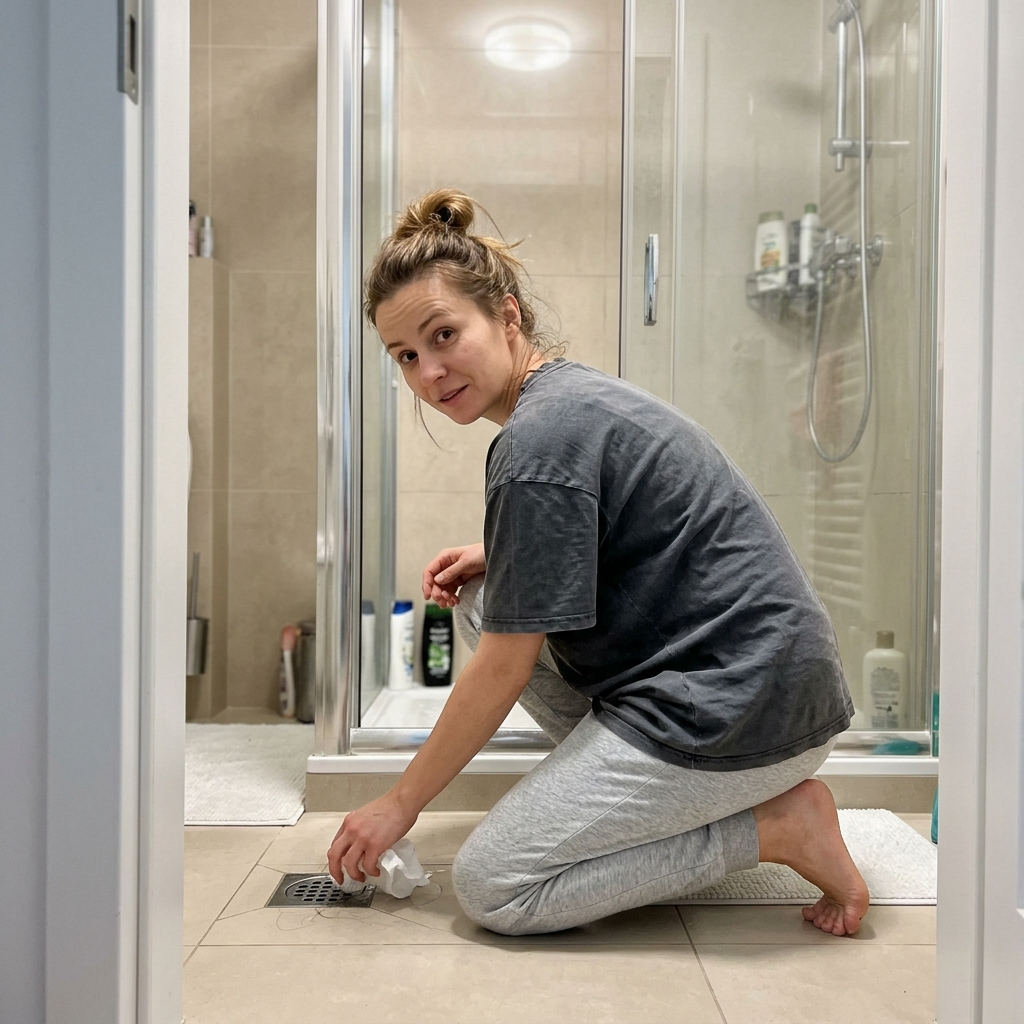
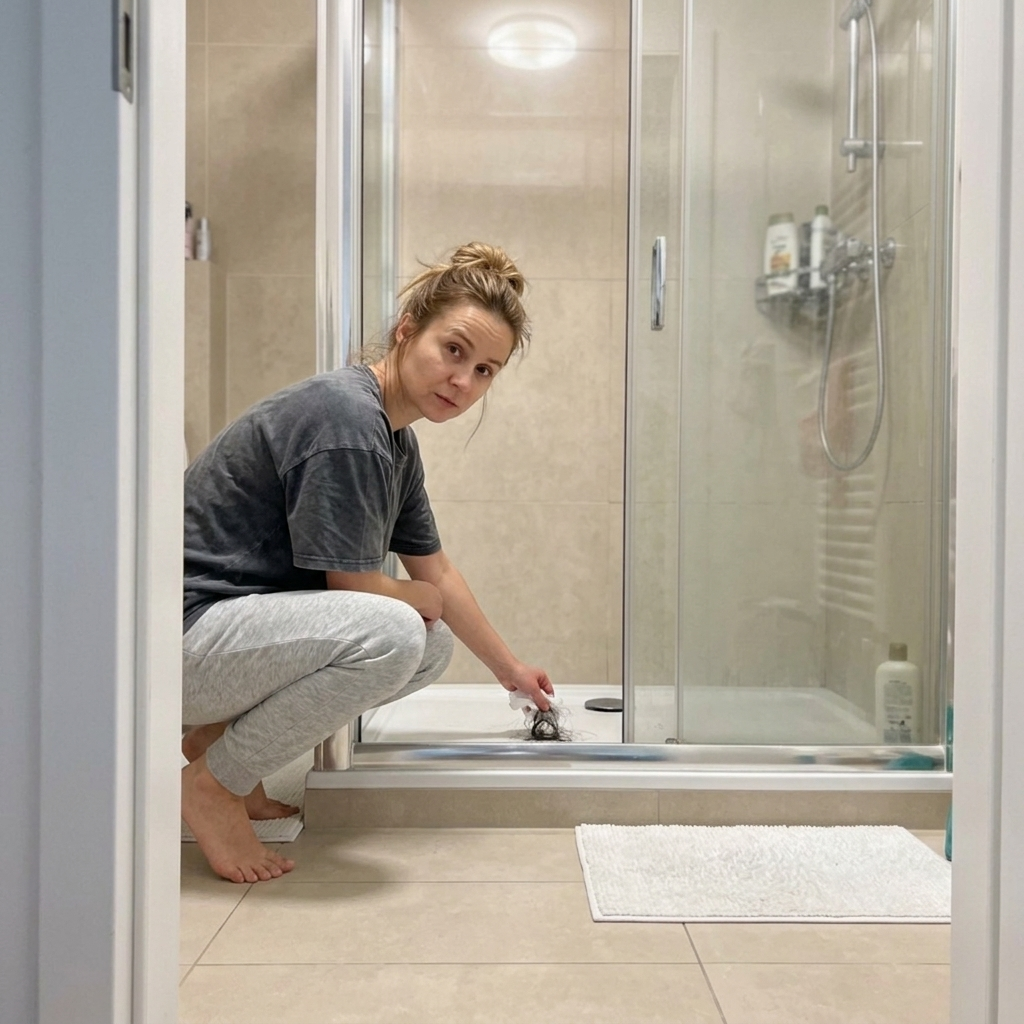
feat(sardian-pl): fix K2_V3 shower drain inside brodzik & add 3 Istanbul Hagia Sophia / brochure photos for K3

diff --git a/lib/sardian-pl.ts b/lib/sardian-pl.ts
@@ -623,6 +623,40 @@ export const SARDIAN_IMAGE_LIBRARY: SardianImageAsset[] = [
     "source": "ai",
     "angleId": "sardian_nd_c5"
   }
+,
+  {
+    "id": "K3_TURCJA_HAGIA_SOPHIA_BROSZURA",
+    "url": "/sardian-pl-images/K3_TURCJA_HAGIA_SOPHIA_BROSZURA.jpg",
+    "imageHash": "",
+    "label": "K3_V1 · Stambuł Hagia Sophia + broszura „STAMBUŁ HAIR CLINIC — 17 000 ZŁ”",
+    "adsetOrigin": "Kąt 3: Szwagier Turcja 17 000 zł",
+    "adOrigin": "K3_TURCJA_HAGIA_SOPHIA_BROSZURA",
+    "aspectRatio": "1:1 (1024x1024)",
+    "source": "ai",
+    "angleId": "sardian_k3_v1"
+  },
+  {
+    "id": "K3_TURCJA_BROSZURA_STAMBUL",
+    "url": "/sardian-pl-images/K3_TURCJA_BROSZURA_STAMBUL.jpg",
+    "imageHash": "",
+    "label": "K3 · Broszura „PRZESZCZEP WŁOSÓW STAMBUŁ 17 000 ZŁ” + polski paszport + SARDIAN",
+    "adsetOrigin": "Kąt 3: Szwagier Turcja 17 000 zł",
+    "adOrigin": "K3_TURCJA_BROSZURA_STAMBUL",
+    "aspectRatio": "1:1 (1024x1024)",
+    "source": "ai",
+    "angleId": "sardian_k3_v1"
+  },
+  {
+    "id": "K3_TURCJA_HAGIA_SOPHIA_WIDOK",
+    "url": "/sardian-pl-images/K3_TURCJA_HAGIA_SOPHIA_WIDOK.jpg",
+    "imageHash": "",
+    "label": "K3 · Stambuł Hagia Sophia (widok z ulicy z telefonu turysty)",
+    "adsetOrigin": "Kąt 3: Szwagier Turcja 17 000 zł",
+    "adOrigin": "K3_TURCJA_HAGIA_SOPHIA_WIDOK",
+    "aspectRatio": "1:1 (1024x1024)",
+    "source": "ai",
+    "angleId": "sardian_k3_v1"
+  }
 ];
 
 export const SARDIAN_PRESET_ANGLES: SardianAnglePreset[] = [
@@ -742,8 +776,8 @@ export const SARDIAN_PRESET_ANGLES: SardianAnglePreset[] = [
     "recommendedFanpageName": "Pokonać Łysienie — Historie i Testy",
     "vocTrigger": "Mój szwagier wydał 17 000 zł na przeszczep w Turcji. Po roku zapytał mnie, co zrobiłem z włosami",
     "mechanismCore": "Stary Winner Desire (ROAS 2.82): 70-80% uśpionych cebulek żyje pod skórą + 92 szampony (96% robi 0 z 3 rzeczy) + Formuła 3 z 3 (Rdest 90% vs 70% minoksydyl, Żeń-szeń + mentol, Biota Orientalis)",
-    "defaultImageId": "K3_V1_TRICHOSCOPE_KAMERA_CEBULKI",
-    "defaultImageUrl": "/sardian-pl-images/K3_V1_TRICHOSCOPE_KAMERA_CEBULKI.jpg",
+    "defaultImageId": "K3_TURCJA_HAGIA_SOPHIA_BROSZURA",
+    "defaultImageUrl": "/sardian-pl-images/K3_TURCJA_HAGIA_SOPHIA_BROSZURA.jpg",
     "defaultImageHash": ""
   },
   {

diff --git a/app/api/sardian-pl/route.ts b/app/api/sardian-pl/route.ts
@@ -23,7 +23,7 @@ import {
 
 export const maxDuration = 300;
 
-const STATE_KEY = 'sardian-pl-v6-39-photos-batch-gen';
+const STATE_KEY = 'sardian-pl-v7-42-photos-turcja-brodzik';
 
 interface SardianPlLibraryState {
   ads: SardianPlGeneratedAd[];
